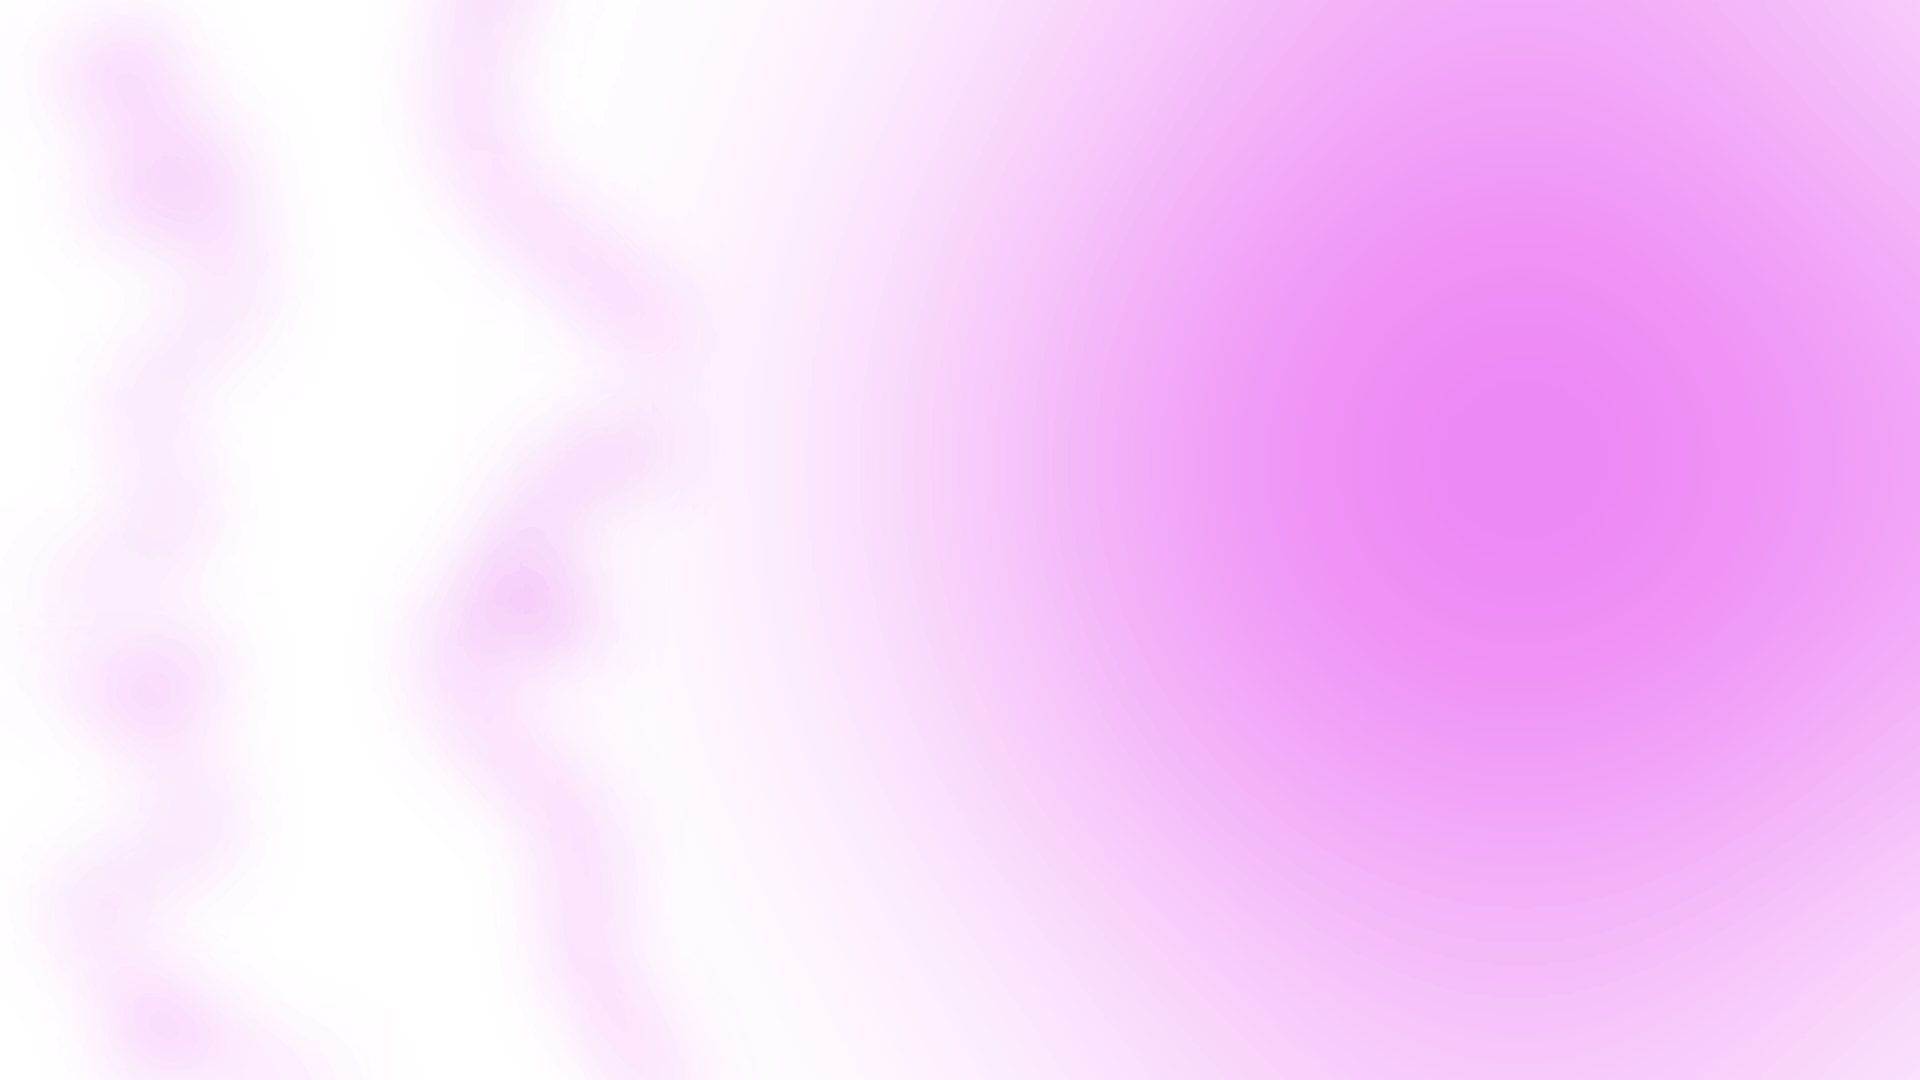
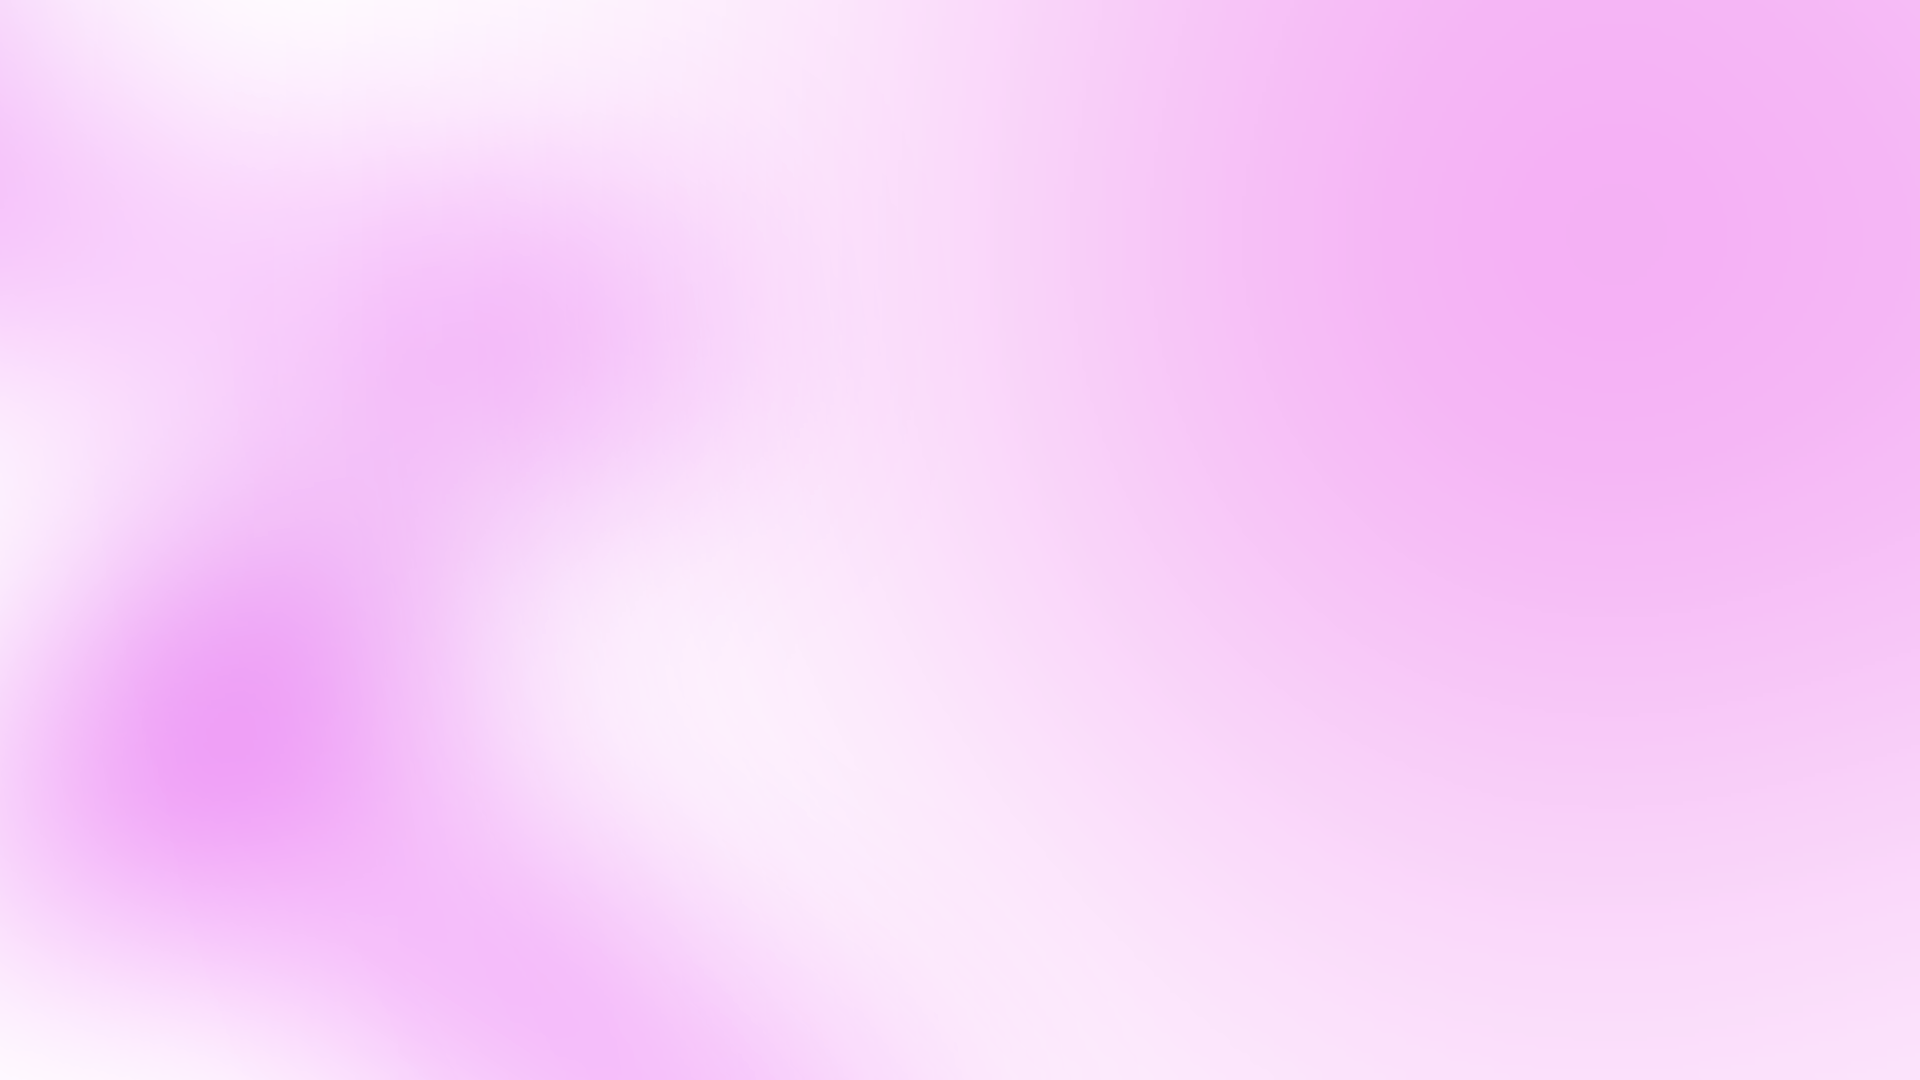
updated background image

diff --git a/src/views/BackgroundGlows.js b/src/views/BackgroundGlows.js
@@ -16,32 +16,6 @@ function BackgroundGlows() {
         <img src={heroImg} alt={'GRAPE Logo'} style={{width: 'auto', height: '100%'}} />
       </div>
       <img alt="" src={require('../assets/img/backgroundblur.png')} className="background-blur" />
-      {/* <img alt="" className="back-glow-2" src={require('../assets/img/background2.png')} /> */}
-      {/*<img
-        alt=""
-        className="back-glow-3"
-        src="https://i.imgur.com/iWh7X3D.png"
-      />
-      <img
-        alt=""
-        className="back-glow-4"
-        src="https://i.imgur.com/iWh7X3D.png"
-      />
-      <img
-        alt=""
-        className="back-glow-5"
-        src="https://i.imgur.com/iWh7X3D.png"
-      />
-      <img
-        alt=""
-        className="back-glow-6"
-        src="https://i.imgur.com/iWh7X3D.png"
-      />
-      <img
-        alt=""
-        className="back-glow-7"
-        src="https://i.imgur.com/iWh7X3D.png"
-      /> */}
     </div>
   );
 }

diff --git a/src/index.css b/src/index.css
@@ -126,35 +126,10 @@ h6 {
   position: fixed;
   z-index: -999;
   width: 100%;
+  height: 100%;
   left: 0%;
   right: 0%;
-  max-width: 1920px;
-}
-
-.back-logo3 {
-  position: fixed;
-  z-index: -999;
-  opacity: 0.3;
-  filter: blur(40px);
-  -webkit-filter: blur(40px);
-  transform: translateZ(-10px) scale(2);
-  width: 100%;
-  left: 0%;
-  right: 0%;
-  top: 90%;
-  max-width: 1920px;
-}
-
-.back-glow-2 {
-  position: fixed;
-  z-index: -999;
-  filter: blur(200px);
-  -webkit-filter: blur(200px);
-  width: 60%;
-  opacity: 0.5;
-  left: 50%;
-  top: 0;
-  transform: translateZ(-10px) scale(2);
+  max-width: 100%;
 }
 
 .wallet-token-value {
